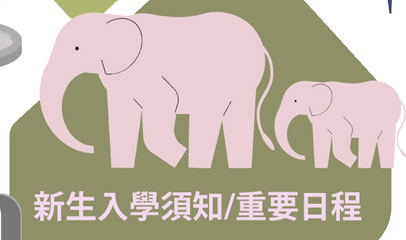
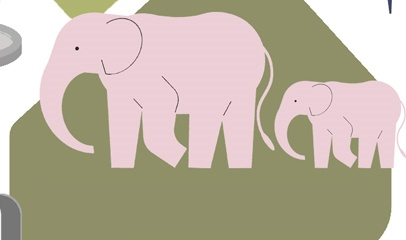
去掉「新生入學須知/重要日程」

Changed region(s): [[0.0591, 0.7875, 0.8867, 0.9333]]

diff --git a/001.html b/001.html
@@ -108,7 +108,7 @@
 		<td colspan="2" rowspan="8">
 			<img src="images/003_23.jpg" width="82" height="582" alt=""></td>
 		<td colspan="4" rowspan="6">
-			<a href="時程.pdf" target="_blank"
+			<a href=" " target="_blank"
 				onmouseover="window.status='新生入學須知';  return true;"
 				onmouseout="window.status='';  return true;">
 				<img src="images/&#x65b0;&#x751f;&#x5165;&#x5b78;&#x9808;&#x77e5;.jpg" width="406" height="240" border="0" alt=""></a></td>
